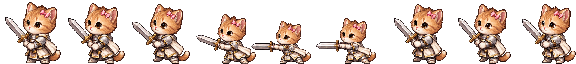
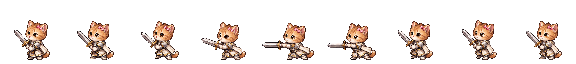
WIP: T161 按头部新口径恢复哈基米统一倍率首行，工具回归通过
执行者: co
核查: 待审查

diff --git a/00_项目管理/交付/T161附图/build_revisions.py b/00_项目管理/交付/T161附图/build_revisions.py
@@ -70,13 +70,49 @@ for c,pixels in enumerate(components):
  assert w<=62 and h<=60,(c,w,h)
  q=q.resize((w,h),Image.Resampling.NEAREST);hnew.paste(q,(c*64+(64-w)//2,60-h),q)
  bb=q.getbbox();measurements.append({'frame':c,'source_cat_height':body_heights[c],'scale':uniform_scale,'native_cat_height':bb[3]-bb[1],'native_width_with_sword':w,'baseline':60})
+# Head width: longest solid alpha run in the upper 90 source pixels. This
+# band includes the widest skull/cheeks but excludes the sword and shoulders.
+head_widths=[]
+for pixels in components:
+ top=min(y for x,y in pixels); rows={}
+ for x,y in pixels:
+  if y<top+90:rows.setdefault(y,[]).append(x)
+ best=0
+ for xs in rows.values():
+  xs.sort();run=1
+  for a,b in zip(xs,xs[1:]):
+   run=run+1 if b==a+1 else 1;best=max(best,run)
+ head_widths.append(best)
+# Manually read ear tip and bottom of chin on the unscaled 64px result.
+# End coordinates are inclusive; chin excludes collar, paws, sword and scarf.
+# These landmarks are an explicit visual annotation, not an alpha body bbox.
+head_y=[(20,40),(21,41),(21,41),(22,42),(23,42),(23,42),(21,40),(20,40),(21,41)]
+for i,m in enumerate(measurements):
+ m.update(source_head_width=head_widths[i],
+          native_head_width=round(head_widths[i]*uniform_scale),
+          native_head_top=head_y[i][0],native_chin_bottom=head_y[i][1],
+          native_head_height=head_y[i][1]-head_y[i][0]+1,
+          height_method='manual ear-tip to chin; excludes collar')
 import json
 (P/'hajimi_uniform_measurements.json').write_text(json.dumps(measurements,indent=2))
-hnew.save(P/'hajimi_uniform_candidate_failed.png')
-assert max(r['native_cat_height'] for r in measurements)-min(r['native_cat_height'] for r in measurements)<=1,measurements
+# Historical failed candidate remains untouched; new accepted-metric result below.
+for key in ('native_head_width','native_head_height'):
+ assert max(r[key] for r in measurements)-min(r[key] for r in measurements)<=1,(key,measurements)
 hnew.save(P/'hajimi_greatsword_row0_64.png')
 board('哈基米',hold,hnew,'CatSwordSaint_Face_crop.png',[
  'Kyo：小猫双爪共握一把大剑；剑比身体有分量，猫与整剑都留在64格内。',
  '保留橘虎斑、粉耳结、银甲白披风与猫尾；一把剑，双爪共握同一柄。',
- '九格同一倍率，猫身高差≤1像素，脚底线统一；仅头像＋谷雨定稿＋五条悟参考。'])
+ '九格同一倍率；头宽／耳顶至下巴高度差≤1px，蹲姿允许身体变矮；待 Kyo 原尺寸确认。'])
 print('revised floating Xuan and single-greatsword Hajimi boards written')
+
+# Keep the approval view at exactly one source pixel per display pixel.
+out=Image.new('RGB',(620,190),'#252b38');out.paste(hnew,(22,28),hnew)
+d=ImageDraw.Draw(out);font=ImageFont.truetype('/System/Library/Fonts/Hiragino Sans GB.ttc',12)
+d.text((10,5),'哈基米首行 · 原尺寸 1:1 · 同一缩放倍率 40/222',font=font,fill='white')
+for i,m in enumerate(measurements):
+ x=22+i*64
+ d.line((x+59,28+m['native_head_top'],x+59,28+m['native_chin_bottom']),fill='#33ccff')
+ d.text((x,100),str(i+1)+': '+str(m['native_head_width'])+'×'+str(m['native_head_height']),font=font,fill='white')
+d.text((10,130),'宽：源图头部上90px最长连续alpha段 × 统一倍率；高：原尺寸耳顶至下巴人工标点。',font=font,fill='white')
+d.text((10,155),'头宽21–22px／头高20–21px；身体蹲低不再当作缩放失败。待Kyo确认。',font=font,fill='white')
+out.save(P/'哈基米_统一倍率原尺寸头部对照.png')

diff --git a/00_项目管理/交付/gpt_t161-tusu-xuan-haji.md b/00_项目管理/交付/gpt_t161-tusu-xuan-haji.md
@@ -1,8 +1,18 @@
 # T161 屠苏／璇／哈基米重绘
 
-- 状态：WIP接力，不可合并；屠苏人形66格已接入，自检／接入专项通过；四武具与璇首行已获Kyo批准待做整套；哈基米统一倍率后仍高差超限待从提示词重出。
+- 状态：WIP接力，不可合并；屠苏人形66格已接入，自检／接入专项通过；四武具与璇首行已获Kyo批准待做整套；哈基米统一倍率按头部新口径通过本车道量测，首行待Kyo确认。
 - 工作者：小o；派单配置 gpt-6.1-sol＋medium（P6）。
 - 开工基线：c5757cabb；工作区开工干净。
+
+## 本次接续（新口径优先，2026-11-18）
+
+- 已按协调更正废止「猫身高差≤1px」门槛。蹲低／突刺不再误判为整帧缩小；下文历史中重出和耳顶至靴底齐高要求均被此条取代。
+- 沿用有效源 `raw_hajimi_guyu_greatsword.png`，九帧统一倍率40/222，未逐帧缩放、未改源像素、未引用作废稿。脚本 `build_revisions.py` 已改验头宽和头高。
+- 头宽口径：源每帧耳顶以下90px内最长连续alpha段（避开剑和肩甲）乘统一倍率取整；结果22/21/21/22/22/22/21/21/21px。头高为原尺寸人工标点「耳顶至下巴」（含端点、排除衣领），结果21/21/21/21/20/20/20/21/21px；人工标点坐标逐帧保存在JSON和脚本，非自动头部分割。两项极差均1px；这是本车道自测，不是交叉核查或Kyo验收。
+- 刷新 `hajimi_greatsword_row0_64.png`、哈基米改后首行对照板及缩略；新增 `哈基米_统一倍率原尺寸头部对照.png`（实际1:1，标头高线）。旧 `hajimi_uniform_candidate_failed.png` 保留作历史证据，不再代表当前判定。
+- 复现：`/tmp/sprite-check-venv/bin/python 00_项目管理/交付/T161附图/build_revisions.py`，退出0；默认python3没有Pillow，复用已有精灵自检虚拟环境即可。
+- 工具快速回归23项全过，退出0、95秒，日志归档 `T161附图/tusu_check/tools_resume.log`。无后台任务遗留。
+- 未起Godot、未更改运行资源或游戏脚本。四武具整套／璇整套、哈基米整套（须先Kyo确认首行）、屠苏相关专项／四张实机图、最终交付自检仍待做，不能合并或标完成。
 
 ## 本轮最终接续（先读，2026-11-18；按40%上下文接力线收口）
 
